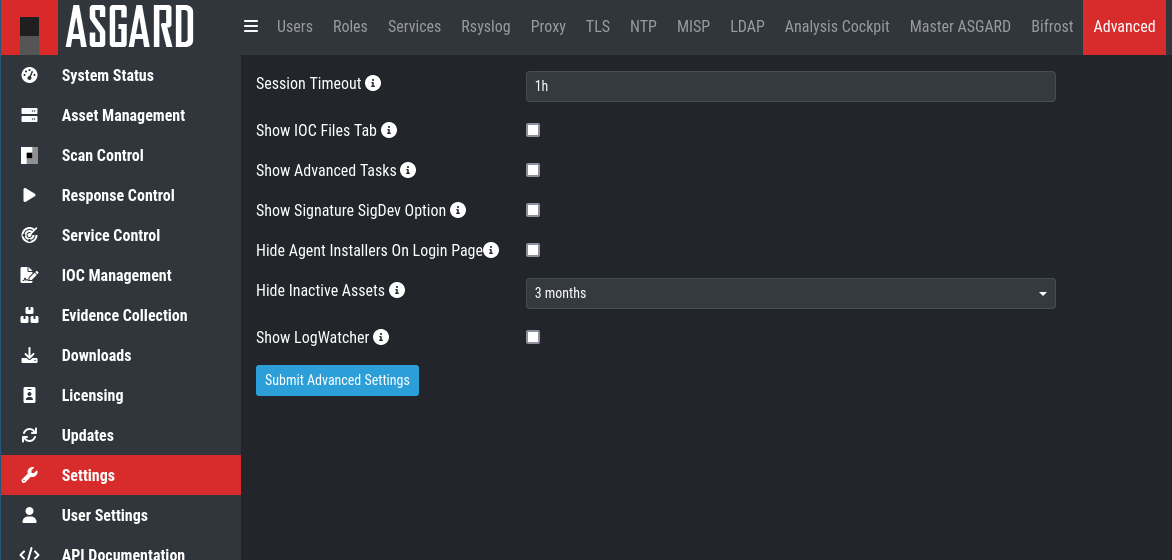
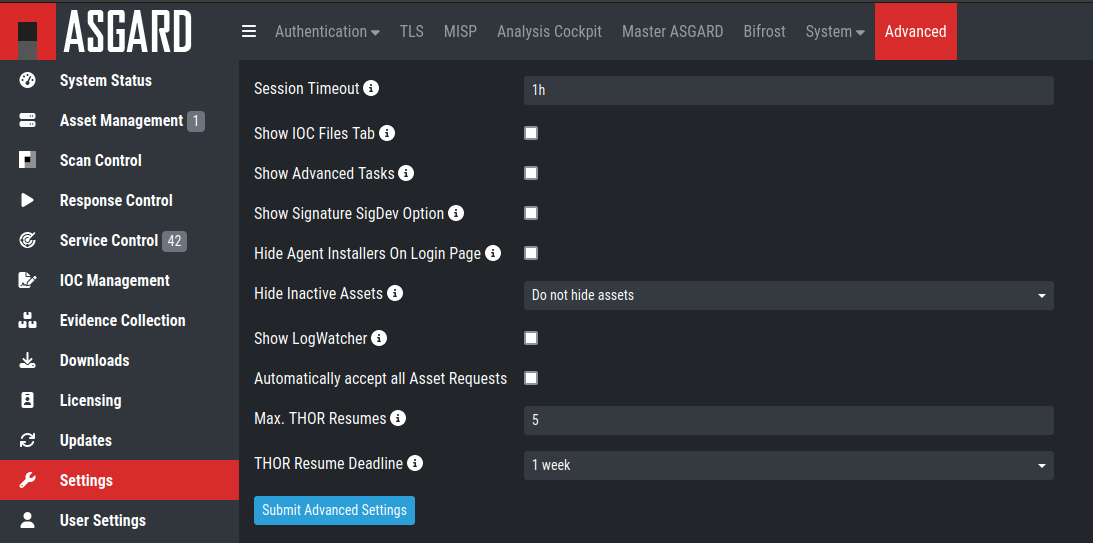
feat: add 2.14 features and changes

diff --git a/usage/administration.rst b/usage/administration.rst
@@ -119,6 +119,15 @@ A registered agent will poll to the ASGARD Management Center at a given interval
 Asset Management
 ----------------
 
+In the ``Asset Management`` view you can see all the connected ASGARD agents. New assets will be placed under ``Asset Requests`` and need a manual approval before being able to connect to your ASGARD (for auto accept see :ref:`usage/administration:Advanced`).
+
+If the ``Duplicate Assets`` view is visible, you should try to remediate the issues in a timely manner, since this might cause unwanted side effects on the duplicate hosts.
+
+.. warning::
+   Assets in the ``Duplicate Assets`` view indicate, that one or more agents are running on multiple endsystems. This might be caused by cloning a system with an already installed ASGARD 2 Agent. Undesirable side effects of duplicate assets are alternating hostnames and tasks that fail immediately.
+
+For remediation please see :ref:`usage/troubleshooting:Duplicate Assets Remediation`
+
 Asset Overview
 ^^^^^^^^^^^^^^
 
@@ -252,6 +261,19 @@ You can search for Assets in your ASGARD with the Asset Query. This allows you t
 
 .. note::
    Optionally: You can also create group tasks with an asset query instead of labels
+
+Asset Migration
+^^^^^^^^^^^^^^^
+
+You can move an asset from one ASGARD to another via the Maintenance Module of Response Control. To do this, navigate to ``Asset Management`` and select the assets you want to migrate. Alternatively you can navigate to ``Response Control`` and add a new task.
+You can now Click the ``Add Task`` button to open the Task Menu. Choose the ``Maintenance`` Module and then the ``Move asset to another ASGARD`` Type. You have to upload an agent installer from the ASGARD you want to migrate the asset to.
+
+.. figure:: ../images/master-asgard-move-asset.png
+   :target: ../images/master-asgard-move-asset.png
+   :alt: MASTER ASGARD Move Asset
+
+.. note::
+   The target OS or Arch of the installer doesn't matter, we will only use the installers configuration data.
 
 Delete Assets
 ^^^^^^^^^^^^^

diff --git a/usage/troubleshooting.rst b/usage/troubleshooting.rst
@@ -69,6 +69,38 @@ If Aurora does not behave like it should, e.g. using more resources than you exp
 
 It can be run from ``Asset Management`` > ``Response Action`` (Play button) or from ``Response Control`` > ``Tasks`` > ``Add Task`` or if needed as a group task. The resulting ``diagnostics.zip`` can be downloaded from the third step in the ``Playbook Result`` tab of the expanded task.
 
+Duplicate Assets Remediation
+~~~~~~~~~~~~~~~~~~~~~~~~~~~~
+
+If you are seeing the ``Duplicate Assets`` view in your ``Asset Management``, you need to fix the issue to avoid unwanted behavior of this asset.
+
+.. figure:: ../images/troubleshooting-duplicate-assets.png
+   :target: ../_images/troubleshooting-duplicate-assets.png
+   :alt: Troubleshooting Duplicate Assets
+
+   Troubleshooting Duplicate Assets
+
+To do this, follow these steps:
+
+1. Connect to the duplicate Asset
+2. Navigate into the configuration directory of the ASGARD Agent
+
+   - Linux (as root user): ``/var/lib/asgard2-agent/``
+   - Windows (as administrative user): ``C:\Windows\System32\asgard2-agent\``
+3. Edit the configuration file ``asgard2-agent.yaml``
+
+   - Remove the value from ``token``
+   - Set ``registered`` to ``false``
+
+   .. figure:: ../images/troubleshooting-remove-registration.png
+      :target: ../_images/troubleshooting-remove-registration.png
+      :alt: Remove Registration Token of Agent
+4. Restart the ASGARD2 Agent Service
+
+   - Linux: ``sudo systemctl restart asgard2-agent.service``
+   - Windows: press the ``windows key + r`` and type ``services.msc``. Find the ``asgard2-agent`` service and restart it.
+5. Your duplicate asset should now be gone and waiting for approval in ``Asset Requests`` (this might take a few minutes)
+
 SSL Interception
 ----------------
 
